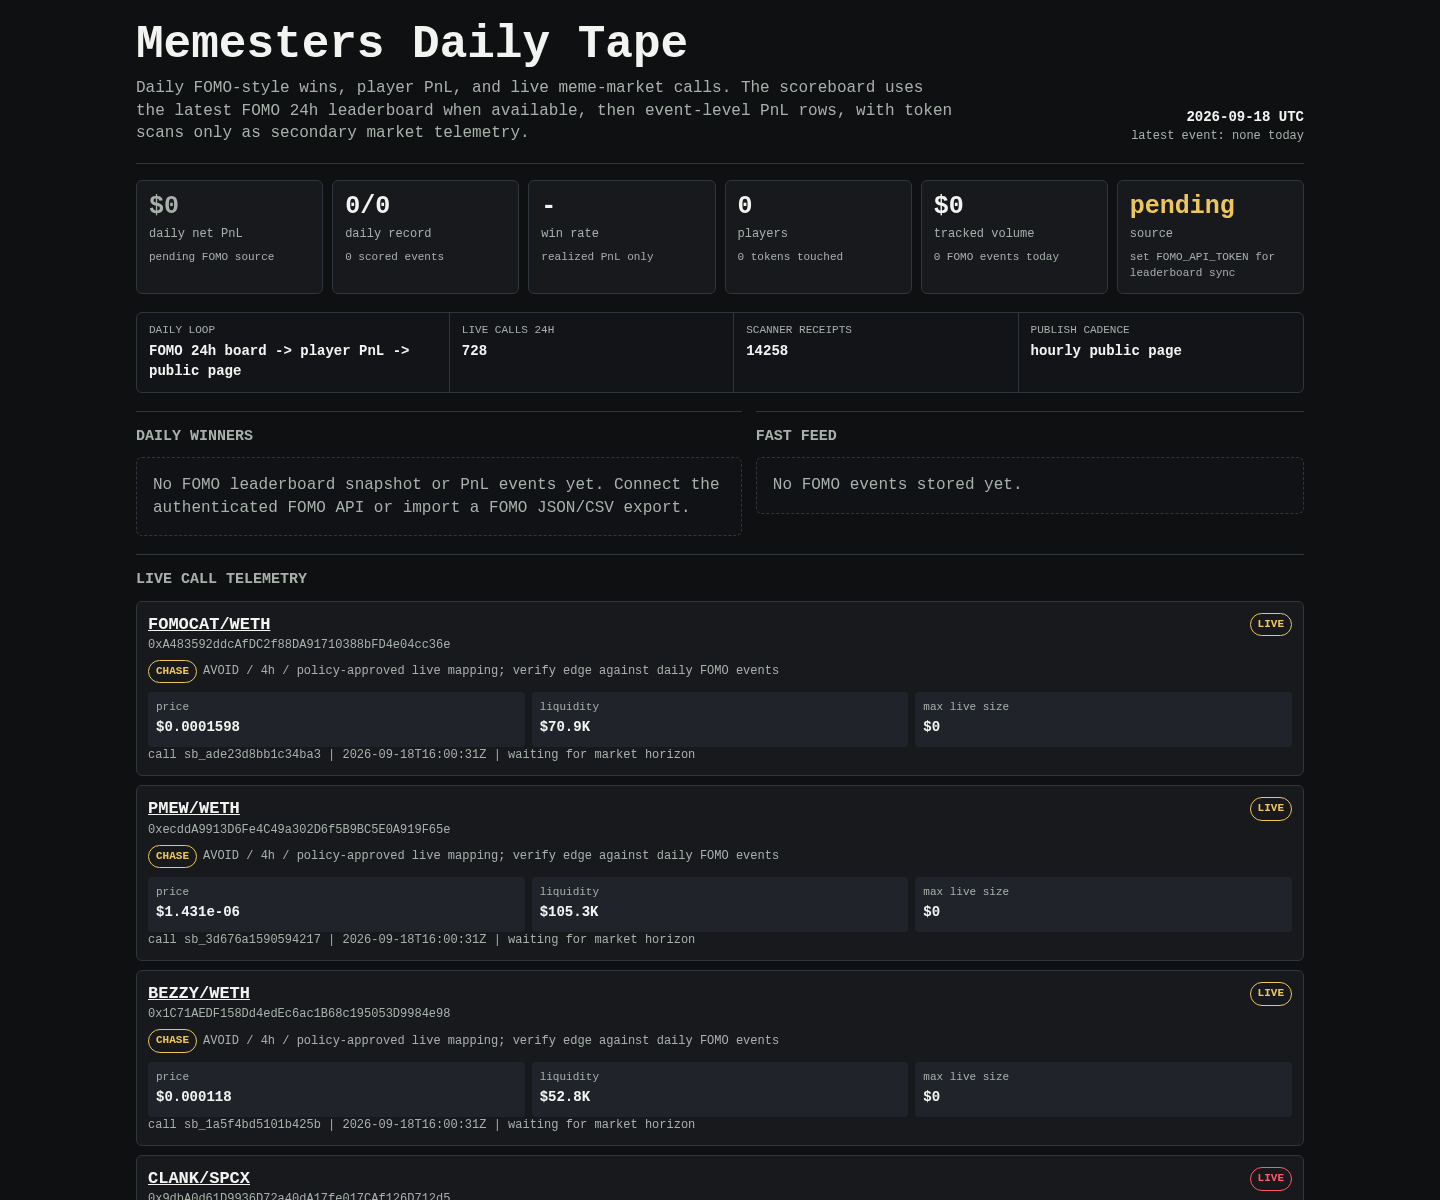
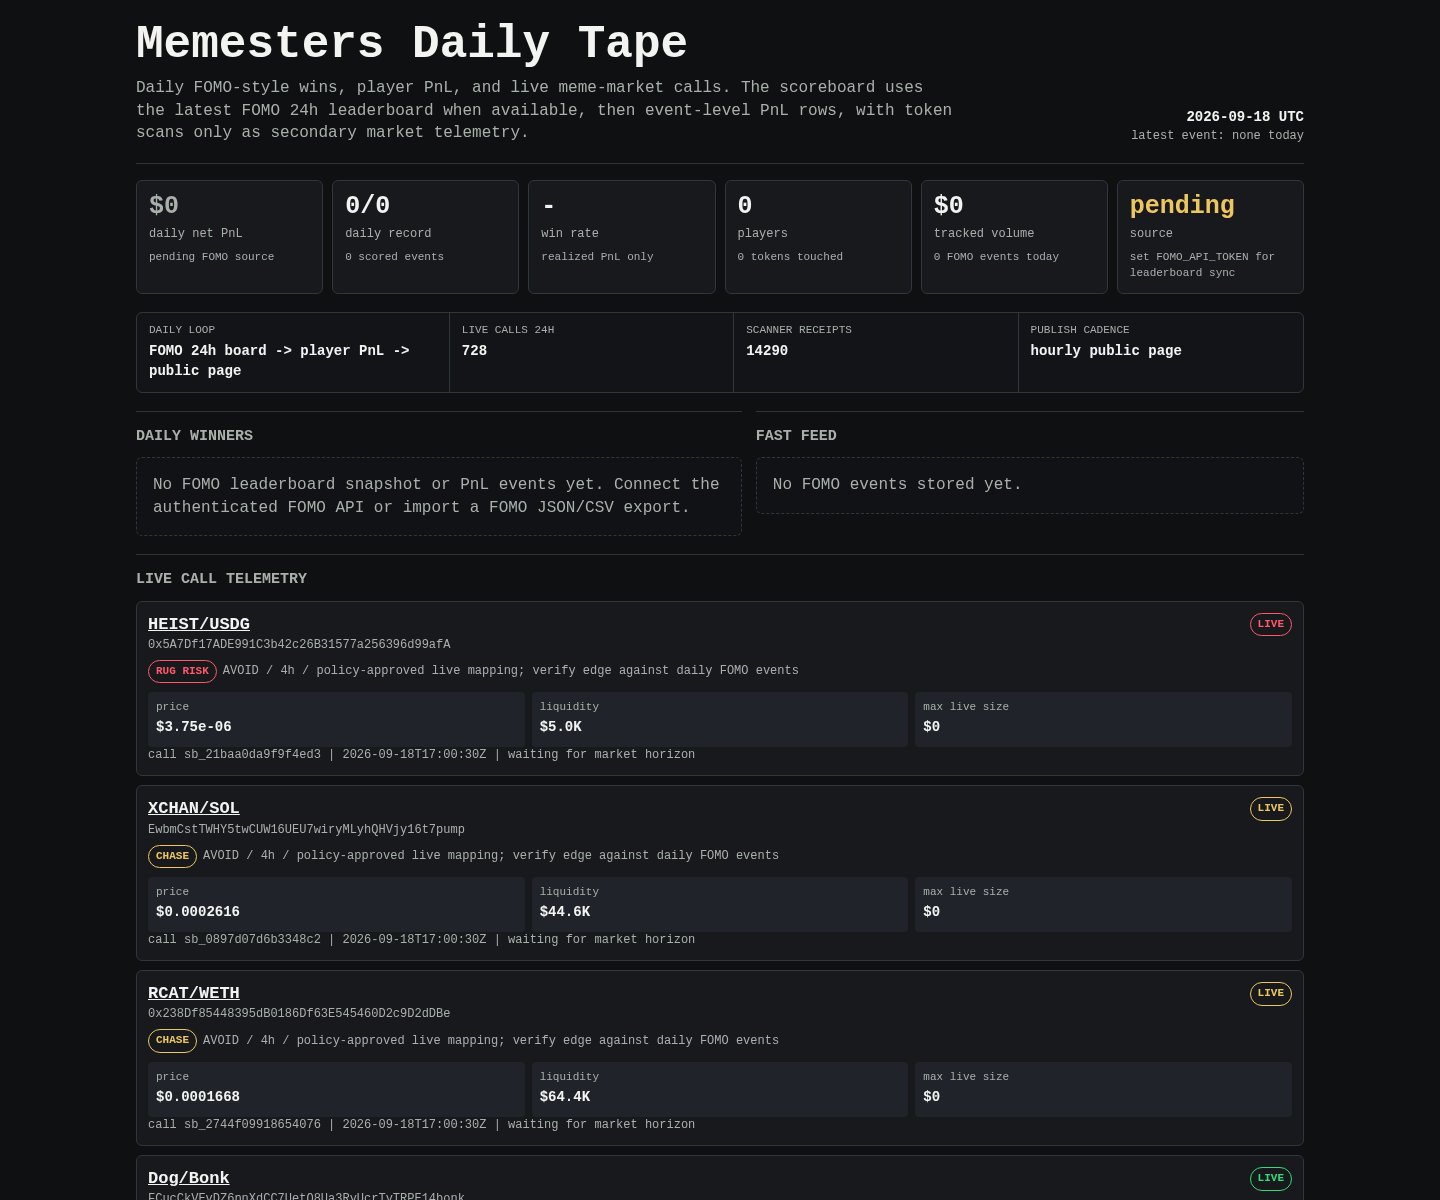
Update Memesters scoreboard

diff --git a/memesters/index.html b/memesters/index.html
@@ -150,7 +150,7 @@
     <div class="rail" aria-label="live operating loop">
       <div><span>daily loop</span><b>FOMO 24h board -> player PnL -> public page</b></div>
       <div><span>live calls 24h</span><b>728</b></div>
-      <div><span>scanner receipts</span><b>14258</b></div>
+      <div><span>scanner receipts</span><b>14290</b></div>
       <div><span>publish cadence</span><b>hourly public page</b></div>
     </div>
 
@@ -171,71 +171,8 @@
     <article class="receipt">
       <div class="receipt-head">
         <div>
-          <div class="pair"><a href="https://dexscreener.com/robinhood/0xd72459fc582248974b0280c42e088996c2e2163c">FOMOCAT/WETH</a></div>
-          <div class="addr">0xA483592ddcAfDC2f88DA91710388bFD4e04cc36e</div>
-          <div class="addr policy-line">
-            <span class="badge chase">CHASE</span>
-            <span>AVOID / 4h / policy-approved live mapping; verify edge against daily FOMO events</span>
-          </div>
-        </div>
-        <span class="badge chase">LIVE</span>
-      </div>
-      <div class="receipt-grid">
-        <div class="kv"><span>price</span><b>$0.0001598</b></div>
-        <div class="kv"><span>liquidity</span><b>$70.9K</b></div>
-        <div class="kv"><span>max live size</span><b>$0</b></div>
-      </div>
-      <div class="outcomes">call sb_ade23d8bb1c34ba3 | 2026-09-18T16:00:31Z | waiting for market horizon</div>
-    </article>
-    
-
-    <article class="receipt">
-      <div class="receipt-head">
-        <div>
-          <div class="pair"><a href="https://dexscreener.com/robinhood/0x27f2d8344e8cf2506f915b436ac2ca791896348bf494bc0564599b98491b0220">PMEW/WETH</a></div>
-          <div class="addr">0xecddA9913D6Fe4C49a302D6f5B9BC5E0A919F65e</div>
-          <div class="addr policy-line">
-            <span class="badge chase">CHASE</span>
-            <span>AVOID / 4h / policy-approved live mapping; verify edge against daily FOMO events</span>
-          </div>
-        </div>
-        <span class="badge chase">LIVE</span>
-      </div>
-      <div class="receipt-grid">
-        <div class="kv"><span>price</span><b>$1.431e-06</b></div>
-        <div class="kv"><span>liquidity</span><b>$105.3K</b></div>
-        <div class="kv"><span>max live size</span><b>$0</b></div>
-      </div>
-      <div class="outcomes">call sb_3d676a1590594217 | 2026-09-18T16:00:31Z | waiting for market horizon</div>
-    </article>
-    
-
-    <article class="receipt">
-      <div class="receipt-head">
-        <div>
-          <div class="pair"><a href="https://dexscreener.com/robinhood/0x15678b69b87591229f7cb97d029bf428ae2b9dc8">BEZZY/WETH</a></div>
-          <div class="addr">0x1C71AEDF158Dd4edEc6ac1B68c195053D9984e98</div>
-          <div class="addr policy-line">
-            <span class="badge chase">CHASE</span>
-            <span>AVOID / 4h / policy-approved live mapping; verify edge against daily FOMO events</span>
-          </div>
-        </div>
-        <span class="badge chase">LIVE</span>
-      </div>
-      <div class="receipt-grid">
-        <div class="kv"><span>price</span><b>$0.000118</b></div>
-        <div class="kv"><span>liquidity</span><b>$52.8K</b></div>
-        <div class="kv"><span>max live size</span><b>$0</b></div>
-      </div>
-      <div class="outcomes">call sb_1a5f4bd5101b425b | 2026-09-18T16:00:31Z | waiting for market horizon</div>
-    </article>
-    
-
-    <article class="receipt">
-      <div class="receipt-head">
-        <div>
-          <div class="pair"><a href="https://dexscreener.com/robinhood/0x8554e9595fd035712e460a82688644477107a057e315d68b11b21ea39d64915a">CLANK/SPCX</a></div>
-          <div class="addr">0x9dbA0d61D9936D72a40dA17fe017CAf126D712d5</div>
+          <div class="pair"><a href="https://dexscreener.com/robinhood/0xd626685be153d149fe1d96f1e869a5832f515196805f418eafc2b4fe96b812a0">HEIST/USDG</a></div>
+          <div class="addr">0x5A7Df17ADE991C3b42c26B31577a256396d99afA</div>
           <div class="addr policy-line">
             <span class="badge rug-risk">RUG RISK</span>
             <span>AVOID / 4h / policy-approved live mapping; verify edge against daily FOMO events</span>
@@ -244,82 +181,19 @@
         <span class="badge rug-risk">LIVE</span>
       </div>
       <div class="receipt-grid">
-        <div class="kv"><span>price</span><b>$0.0001042</b></div>
-        <div class="kv"><span>liquidity</span><b>$30.6K</b></div>
+        <div class="kv"><span>price</span><b>$3.75e-06</b></div>
+        <div class="kv"><span>liquidity</span><b>$5.0K</b></div>
         <div class="kv"><span>max live size</span><b>$0</b></div>
       </div>
-      <div class="outcomes">call sb_1b0b39a5914c42f5 | 2026-09-18T16:00:31Z | waiting for market horizon</div>
+      <div class="outcomes">call sb_21baa0da9f9f4ed3 | 2026-09-18T17:00:30Z | waiting for market horizon</div>
     </article>
     
 
     <article class="receipt">
       <div class="receipt-head">
         <div>
-          <div class="pair"><a href="https://dexscreener.com/solana/byb5flgmkpddxya7vwstj4stsgp9hnskxkg4mrazsndq">ZMINE/SOL</a></div>
-          <div class="addr">CVQVACSxXQg7niKgVhwHBTZbBKt8XwcT7RTgL4aYpump</div>
-          <div class="addr policy-line">
-            <span class="badge early">EARLY</span>
-            <span>BUY / 1h / policy-approved live mapping; verify edge against daily FOMO events</span>
-          </div>
-        </div>
-        <span class="badge early">LIVE</span>
-      </div>
-      <div class="receipt-grid">
-        <div class="kv"><span>price</span><b>$4.837e-05</b></div>
-        <div class="kv"><span>liquidity</span><b>$17.5K</b></div>
-        <div class="kv"><span>max live size</span><b>$100</b></div>
-      </div>
-      <div class="outcomes">call sb_f8053ff7edbc4a1b | 2026-09-18T16:00:31Z | waiting for market horizon</div>
-    </article>
-    
-
-    <article class="receipt">
-      <div class="receipt-head">
-        <div>
-          <div class="pair"><a href="https://dexscreener.com/robinhood/0x06e29486f94877e39640b0611b3c1eb80c24833a52ff2dd5061fab3e59a7cc3a">Fuckboy/GME</a></div>
-          <div class="addr">0x65F5e4F398F79806428e3b8360d74226be91FA39</div>
-          <div class="addr policy-line">
-            <span class="badge early">EARLY</span>
-            <span>BUY / 1h / policy-approved live mapping; verify edge against daily FOMO events</span>
-          </div>
-        </div>
-        <span class="badge early">LIVE</span>
-      </div>
-      <div class="receipt-grid">
-        <div class="kv"><span>price</span><b>$3.663e-05</b></div>
-        <div class="kv"><span>liquidity</span><b>$15.7K</b></div>
-        <div class="kv"><span>max live size</span><b>$189</b></div>
-      </div>
-      <div class="outcomes">call sb_0043d88b28794da1 | 2026-09-18T16:00:30Z | waiting for market horizon</div>
-    </article>
-    
-
-    <article class="receipt">
-      <div class="receipt-head">
-        <div>
-          <div class="pair"><a href="https://dexscreener.com/solana/bhx6h4jwtqpf8w7v7j2czrxa8jdqkntlrq25k3t2rqtf">HYNU/HYPE</a></div>
-          <div class="addr">D9fL3bqUnKq5ZAoVKFpTnNydW92uSJqq1vpK7udQLA9a</div>
-          <div class="addr policy-line">
-            <span class="badge early">EARLY</span>
-            <span>BUY / 1h / policy-approved live mapping; verify edge against daily FOMO events</span>
-          </div>
-        </div>
-        <span class="badge early">LIVE</span>
-      </div>
-      <div class="receipt-grid">
-        <div class="kv"><span>price</span><b>$6.962e-05</b></div>
-        <div class="kv"><span>liquidity</span><b>$23.5K</b></div>
-        <div class="kv"><span>max live size</span><b>$147</b></div>
-      </div>
-      <div class="outcomes">call sb_01b9a86e8a0e44a7 | 2026-09-18T16:00:30Z | waiting for market horizon</div>
-    </article>
-    
-
-    <article class="receipt">
-      <div class="receipt-head">
-        <div>
-          <div class="pair"><a href="https://dexscreener.com/robinhood/0xa39b0d0a617e2dfe81c610203cc7054ced8bb342">Cali/WETH</a></div>
-          <div class="addr">0xBE59101B4438Ed31F9726fe33d368566fCB81128</div>
+          <div class="pair"><a href="https://dexscreener.com/solana/c1altd6d9zsovursrbobfrt4garhcthhc6rmjrzfguqb">XCHAN/SOL</a></div>
+          <div class="addr">EwbmCstTWHY5twCUW16UEU7wiryMLyhQHVjy16t7pump</div>
           <div class="addr policy-line">
             <span class="badge chase">CHASE</span>
             <span>AVOID / 4h / policy-approved live mapping; verify edge against daily FOMO events</span>
@@ -328,19 +202,103 @@
         <span class="badge chase">LIVE</span>
       </div>
       <div class="receipt-grid">
-        <div class="kv"><span>price</span><b>$0.0001461</b></div>
-        <div class="kv"><span>liquidity</span><b>$67.4K</b></div>
+        <div class="kv"><span>price</span><b>$0.0002616</b></div>
+        <div class="kv"><span>liquidity</span><b>$44.6K</b></div>
         <div class="kv"><span>max live size</span><b>$0</b></div>
       </div>
-      <div class="outcomes">call sb_bea6fb78ec0f49ae | 2026-09-18T16:00:30Z | waiting for market horizon</div>
+      <div class="outcomes">call sb_0897d07d6b3348c2 | 2026-09-18T17:00:30Z | waiting for market horizon</div>
     </article>
     
 
     <article class="receipt">
       <div class="receipt-head">
         <div>
-          <div class="pair"><a href="https://dexscreener.com/solana/h6rbmqppep8nv2dfsrmzvekq7ftttenkwt8vhmnvvfjr">$KARMA/SOL</a></div>
-          <div class="addr">GM6wtcsM8gnwVxTrt7ppV8TU8LtQjh6dNBxFRGDbpump</div>
+          <div class="pair"><a href="https://dexscreener.com/robinhood/0x23b74cbebad602bb4e7c24f3156b4136a94c2f6a">RCAT/WETH</a></div>
+          <div class="addr">0x238Df85448395dB0186Df63E545460D2c9D2dDBe</div>
+          <div class="addr policy-line">
+            <span class="badge chase">CHASE</span>
+            <span>AVOID / 4h / policy-approved live mapping; verify edge against daily FOMO events</span>
+          </div>
+        </div>
+        <span class="badge chase">LIVE</span>
+      </div>
+      <div class="receipt-grid">
+        <div class="kv"><span>price</span><b>$0.0001668</b></div>
+        <div class="kv"><span>liquidity</span><b>$64.4K</b></div>
+        <div class="kv"><span>max live size</span><b>$0</b></div>
+      </div>
+      <div class="outcomes">call sb_2744f09918654076 | 2026-09-18T17:00:30Z | waiting for market horizon</div>
+    </article>
+    
+
+    <article class="receipt">
+      <div class="receipt-head">
+        <div>
+          <div class="pair"><a href="https://dexscreener.com/solana/b7m4s1uzngl4cuztr81pjop5wpabmfnvdwx4rkwwtqb9">Dog/Bonk</a></div>
+          <div class="addr">FCucCkVEvDZ6pnXdCC7UetQ8Ua3RyUcrTvTRPE14bonk</div>
+          <div class="addr policy-line">
+            <span class="badge early">EARLY</span>
+            <span>BUY / 1h / policy-approved live mapping; verify edge against daily FOMO events</span>
+          </div>
+        </div>
+        <span class="badge early">LIVE</span>
+      </div>
+      <div class="receipt-grid">
+        <div class="kv"><span>price</span><b>$5.578e-05</b></div>
+        <div class="kv"><span>liquidity</span><b>$22.1K</b></div>
+        <div class="kv"><span>max live size</span><b>$260</b></div>
+      </div>
+      <div class="outcomes">call sb_095c2b0aae9443f1 | 2026-09-18T17:00:30Z | waiting for market horizon</div>
+    </article>
+    
+
+    <article class="receipt">
+      <div class="receipt-head">
+        <div>
+          <div class="pair"><a href="https://dexscreener.com/solana/upzh2dgr1vsozvvbmnme24jxitdwnpkm8sguzcvlu4r">BABYCATE/CATE</a></div>
+          <div class="addr">D3Z5RXPGWtvAc7UxFSeN4itLBPHyNVhVLRzXBMmUpump</div>
+          <div class="addr policy-line">
+            <span class="badge early">EARLY</span>
+            <span>BUY / 1h / policy-approved live mapping; verify edge against daily FOMO events</span>
+          </div>
+        </div>
+        <span class="badge early">LIVE</span>
+      </div>
+      <div class="receipt-grid">
+        <div class="kv"><span>price</span><b>$0.0001708</b></div>
+        <div class="kv"><span>liquidity</span><b>$53.1K</b></div>
+        <div class="kv"><span>max live size</span><b>$462</b></div>
+      </div>
+      <div class="outcomes">call sb_ca164e2877c04c98 | 2026-09-18T17:00:30Z | waiting for market horizon</div>
+    </article>
+    
+
+    <article class="receipt">
+      <div class="receipt-head">
+        <div>
+          <div class="pair"><a href="https://dexscreener.com/robinhood/0xbd4cdb18e51bfb3604d36402dcee5ec08fe0b3a35a9a9da34b5db5f179643a62">VIRALD/ETH</a></div>
+          <div class="addr">0x5f03170a87f1fbeC2C5ffBA79AFeF26b49c320D5</div>
+          <div class="addr policy-line">
+            <span class="badge early">EARLY</span>
+            <span>BUY / 1h / policy-approved live mapping; verify edge against daily FOMO events</span>
+          </div>
+        </div>
+        <span class="badge early">LIVE</span>
+      </div>
+      <div class="receipt-grid">
+        <div class="kv"><span>price</span><b>$4.254e-05</b></div>
+        <div class="kv"><span>liquidity</span><b>$19.5K</b></div>
+        <div class="kv"><span>max live size</span><b>$58</b></div>
+      </div>
+      <div class="outcomes">call sb_4cc9024cb4194813 | 2026-09-18T17:00:30Z | waiting for market horizon</div>
+    </article>
+    
+
+    <article class="receipt">
+      <div class="receipt-head">
+        <div>
+          <div class="pair"><a href="https://dexscreener.com/robinhood/0xe343abc1aeed7e242f9a1e67da215b7f6980988c8e2753a27f726c98748d6dcb">NARRA/ETH</a></div>
+          <div class="addr">0x02B66BBE6915165036abcb4D317431677A02725B</div>
           <div class="addr policy-line">
             <span class="badge rug-risk">RUG RISK</span>
             <span>AVOID / 4h / policy-approved live mapping; verify edge against daily FOMO events</span>
@@ -349,19 +307,19 @@
         <span class="badge rug-risk">LIVE</span>
       </div>
       <div class="receipt-grid">
-        <div class="kv"><span>price</span><b>$0.0001134</b></div>
-        <div class="kv"><span>liquidity</span><b>$28.7K</b></div>
+        <div class="kv"><span>price</span><b>$1.463e-05</b></div>
+        <div class="kv"><span>liquidity</span><b>$11.4K</b></div>
         <div class="kv"><span>max live size</span><b>$0</b></div>
       </div>
-      <div class="outcomes">call sb_b6eaf3ee72494876 | 2026-09-18T15:45:21Z | waiting for market horizon</div>
+      <div class="outcomes">call sb_7aac8c425ccd499d | 2026-09-18T17:00:29Z | waiting for market horizon</div>
     </article>
     
 
     <article class="receipt">
       <div class="receipt-head">
         <div>
-          <div class="pair"><a href="https://dexscreener.com/solana/8mleajid7xi3s6tox8vmuqpwuqp5sjdfas8d2bcxv5pg">LOOP/SOL</a></div>
-          <div class="addr">F3gA9AMExaqraw3uHmt2QhTDqLWAZ49B9j48mf7yvREV</div>
+          <div class="pair"><a href="https://dexscreener.com/solana/eubams233wi76cdprzyzaouqstsasdq6g4xwn9e9tm3u">STARE/SOL</a></div>
+          <div class="addr">XH9jnitNBAYLKQYXGqZHTvLsLLUFo4a6uMpyyKmpump</div>
           <div class="addr policy-line">
             <span class="badge rug-risk">RUG RISK</span>
             <span>AVOID / 4h / policy-approved live mapping; verify edge against daily FOMO events</span>
@@ -370,11 +328,53 @@
         <span class="badge rug-risk">LIVE</span>
       </div>
       <div class="receipt-grid">
-        <div class="kv"><span>price</span><b>$5.393e-06</b></div>
-        <div class="kv"><span>liquidity</span><b>$3.1K</b></div>
+        <div class="kv"><span>price</span><b>$2.491e-06</b></div>
+        <div class="kv"><span>liquidity</span><b>$2.8K</b></div>
         <div class="kv"><span>max live size</span><b>$0</b></div>
       </div>
-      <div class="outcomes">call sb_cc7c817674ef4c6a | 2026-09-18T15:45:21Z | waiting for market horizon</div>
+      <div class="outcomes">call sb_82161430af1e4aaa | 2026-09-18T16:45:24Z | waiting for market horizon</div>
+    </article>
+    
+
+    <article class="receipt">
+      <div class="receipt-head">
+        <div>
+          <div class="pair"><a href="https://dexscreener.com/robinhood/0x4a40ba5e67bbdc2c1877c1e755bed88cfc2a0ea0764ae2e43f19d363fd42109e">tomcat/WETH</a></div>
+          <div class="addr">0x9Faf90507Ee786F833A695318c203C083F0edE19</div>
+          <div class="addr policy-line">
+            <span class="badge chase">CHASE</span>
+            <span>AVOID / 4h / policy-approved live mapping; verify edge against daily FOMO events</span>
+          </div>
+        </div>
+        <span class="badge chase">LIVE</span>
+      </div>
+      <div class="receipt-grid">
+        <div class="kv"><span>price</span><b>$4.422e-05</b></div>
+        <div class="kv"><span>liquidity</span><b>$22.6K</b></div>
+        <div class="kv"><span>max live size</span><b>$0</b></div>
+      </div>
+      <div class="outcomes">call sb_294c04993656492c | 2026-09-18T16:45:24Z | waiting for market horizon</div>
+    </article>
+    
+
+    <article class="receipt">
+      <div class="receipt-head">
+        <div>
+          <div class="pair"><a href="https://dexscreener.com/solana/4rczd6lp7kkyuvzhhapxjwkghqsqrelbgrj1pxf13zbu">LTC/SOL</a></div>
+          <div class="addr">DeBEtV2ycUcZ7c4h7MnJAyjN2MCR4enmFbfDRZempump</div>
+          <div class="addr policy-line">
+            <span class="badge early">EARLY</span>
+            <span>BUY / 1h / policy-approved live mapping; verify edge against daily FOMO events</span>
+          </div>
+        </div>
+        <span class="badge early">LIVE</span>
+      </div>
+      <div class="receipt-grid">
+        <div class="kv"><span>price</span><b>$9.493e-05</b></div>
+        <div class="kv"><span>liquidity</span><b>$25.7K</b></div>
+        <div class="kv"><span>max live size</span><b>$308</b></div>
+      </div>
+      <div class="outcomes">call sb_9d1e46ffd5f649d1 | 2026-09-18T16:45:24Z | waiting for market horizon</div>
     </article>
     
     </section>
